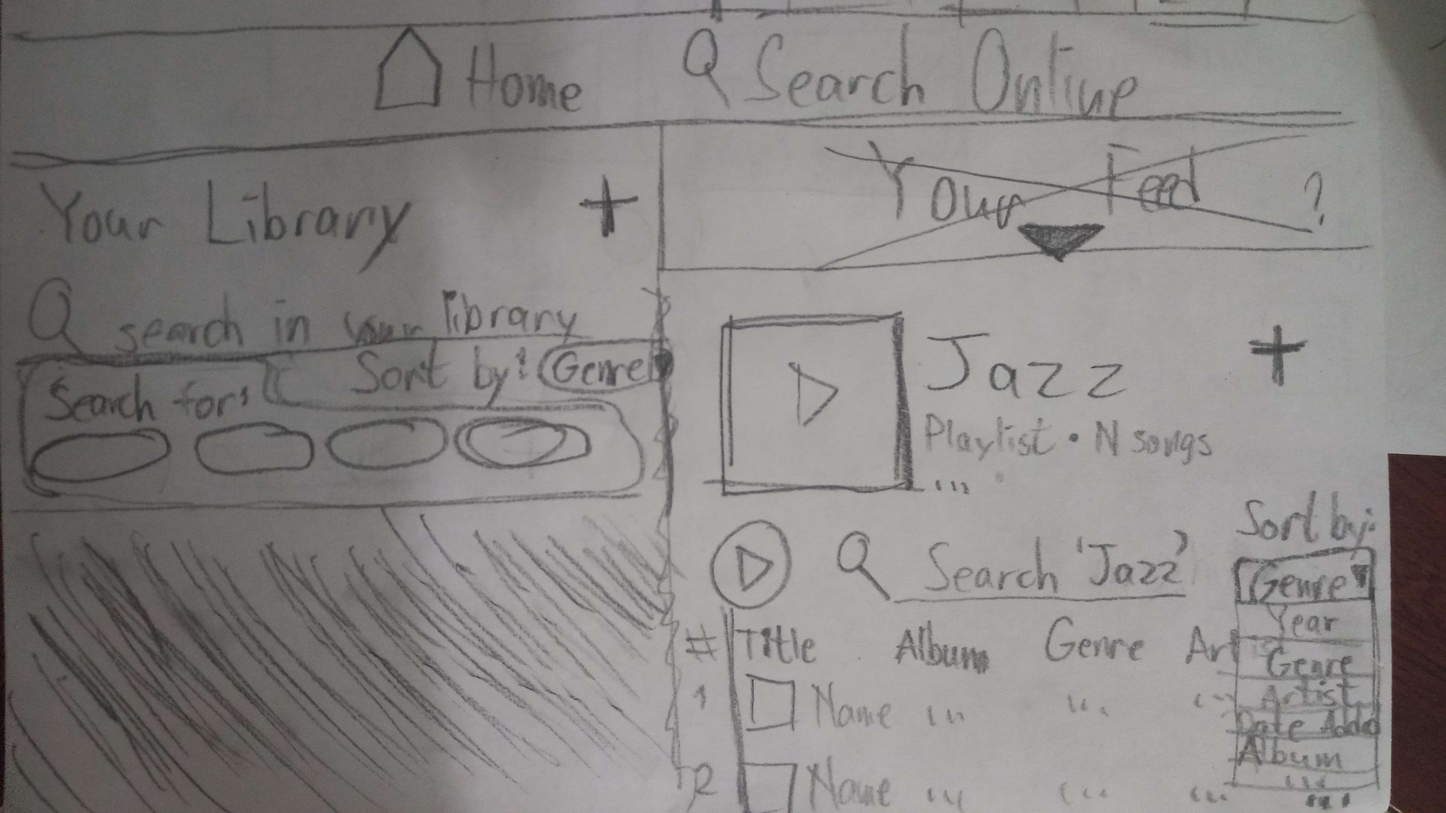
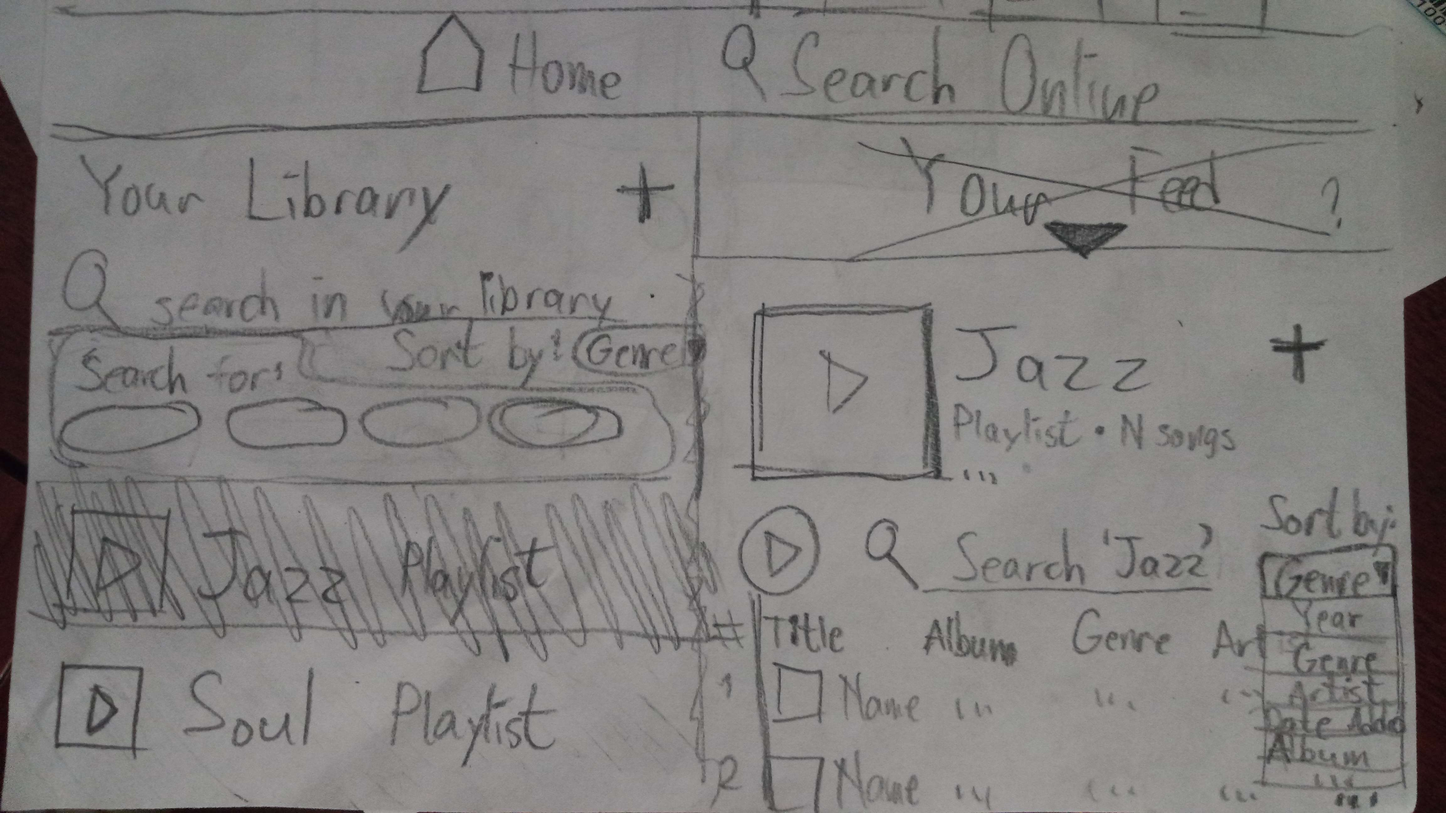
Add final sketches

diff --git a/designer_language/research.md b/designer_language/research.md
@@ -88,7 +88,6 @@ I've finally decided to
 - Add an ``Add to Your Library...`` button on a song result in Soptify's public search results, and not just in the playlist, **to make it easier for her to add it**
 - Add two ways to add a song in a library: search for songs online, or use songs already in ``Your Library`` (**I just realized that this may make copies of songs, making them repeat while playing them, which may be annoying. This
 change may be removed in the prototype.**)
-- Move ``Your Feed`` together with the header
 
 ### Mockups
 <img src="chosen_idea_1.jpg">
@@ -103,6 +102,10 @@ Sort by genre is an option in both search results in ``Your Library`` and in pla
 (The sorting method should affect both the playlist and the playist's search results. IT SHOULD NOT BE PERMANENTLY CHANGING THE ORDER THAT THEY'RE STORED IN)
 <img src="chosen_idea_2.jpg">
 The ``+`` button should expand the two search queries at the right.
+
+<img src="chosen_idea_4.jpg">
+<img src="chosen_idea_5.jpg">
+Anything that could be added to ``Your Library`` found online should have an option called ``Add to Your Library...``, that spawns a pop-up or extends a menu that gives Regina the option to save it somewhere.
 
 ## Why did I choose these ones?
 I thought they would give more control, express purpose clearly, allow Regina to find and add songs to her library easier.
